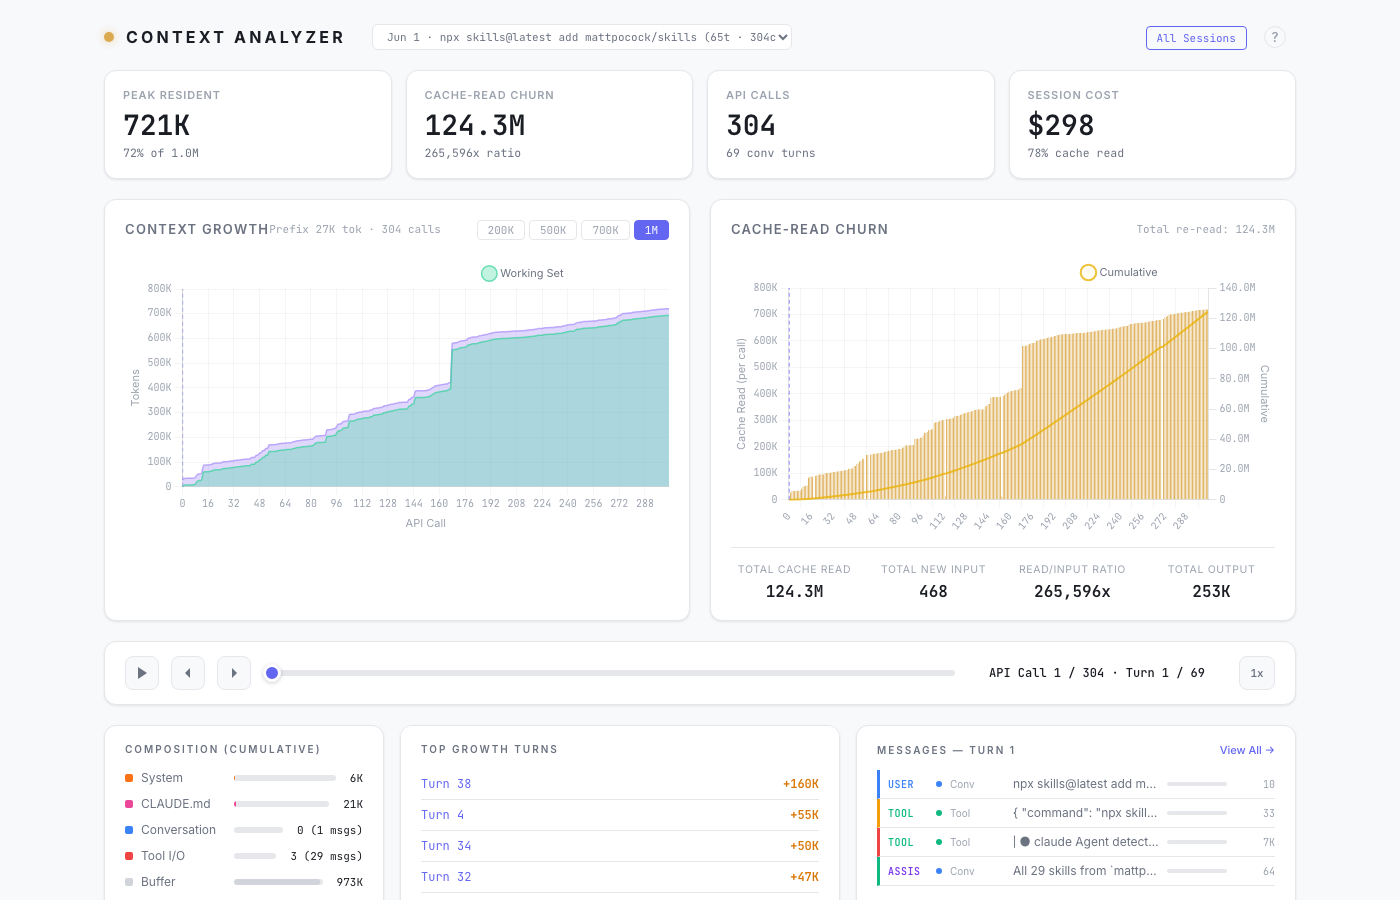
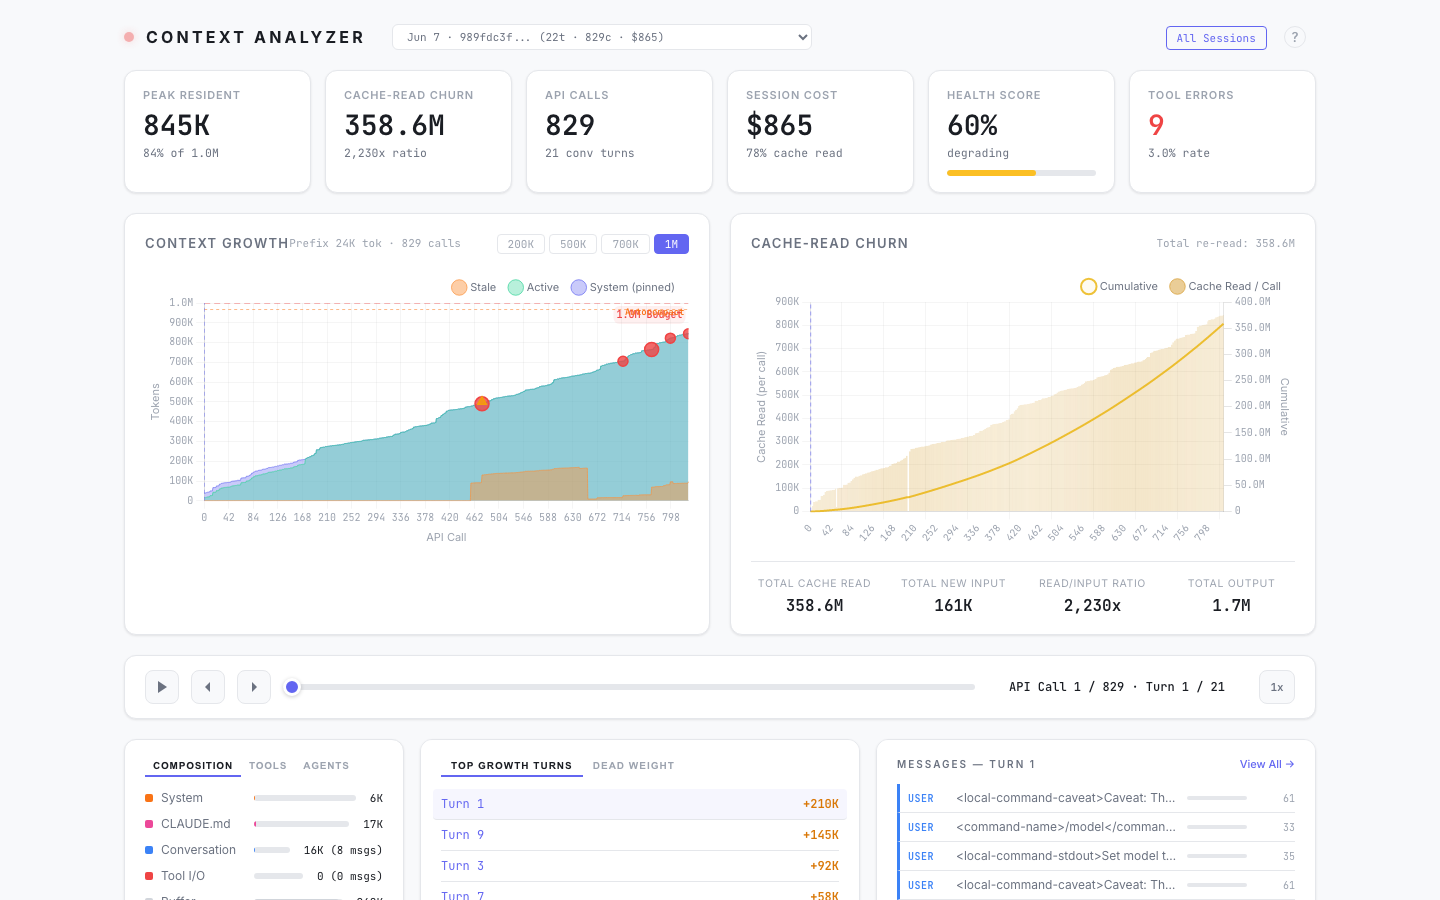
docs: add demo GIF and update README screenshots
- Add animated GIF (9s, 6 frames) showing: overview with stats,
  mid-session scrubber, late-session near context limit, composition
  + messages panes, recommendations panel, cross-session analytics
- Update all 5 README screenshots with current dashboard design
- Place GIF prominently at top of README below description

diff --git a/README.md b/README.md
@@ -2,6 +2,8 @@
 
 Context window usage analyzer for Claude Code. Tracks how context is consumed across tools, compaction, skills, and user interactions — then visualizes it so you can optimize your sessions.
 
+![Context Analyzer Demo](docs/screenshots/context-analyzer-demo.gif)
+
 ## What it does
 
 - **Hooks** into Claude Code via `~/.claude/settings.json` to capture tool calls, compaction events, session lifecycle, and subagent activity
